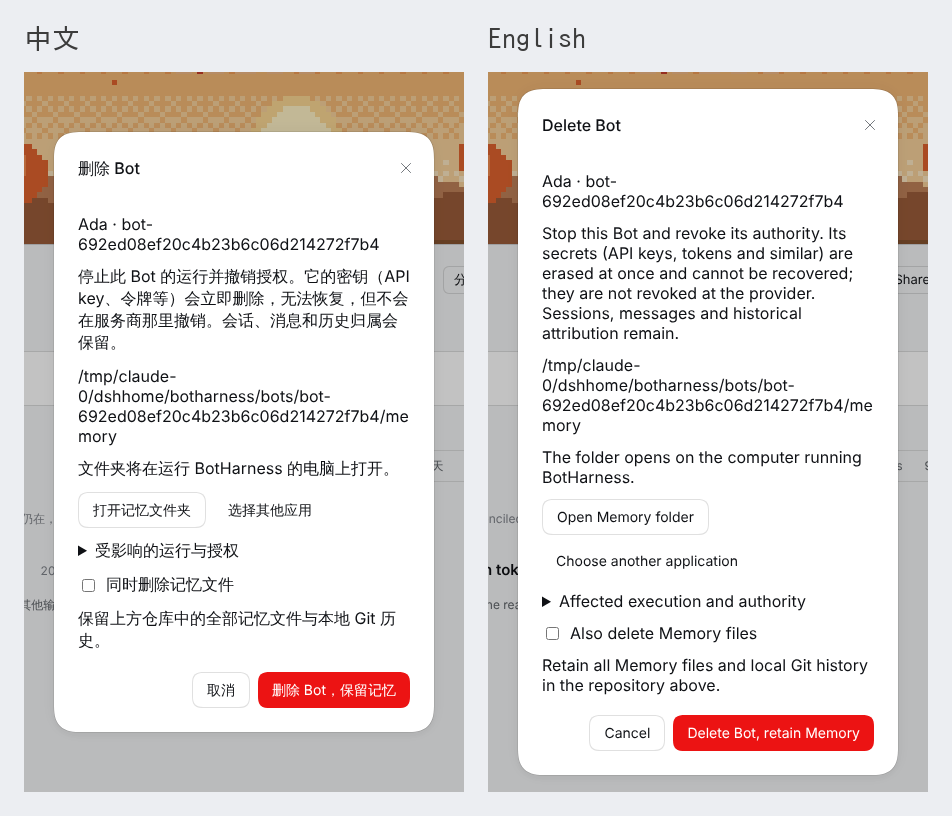
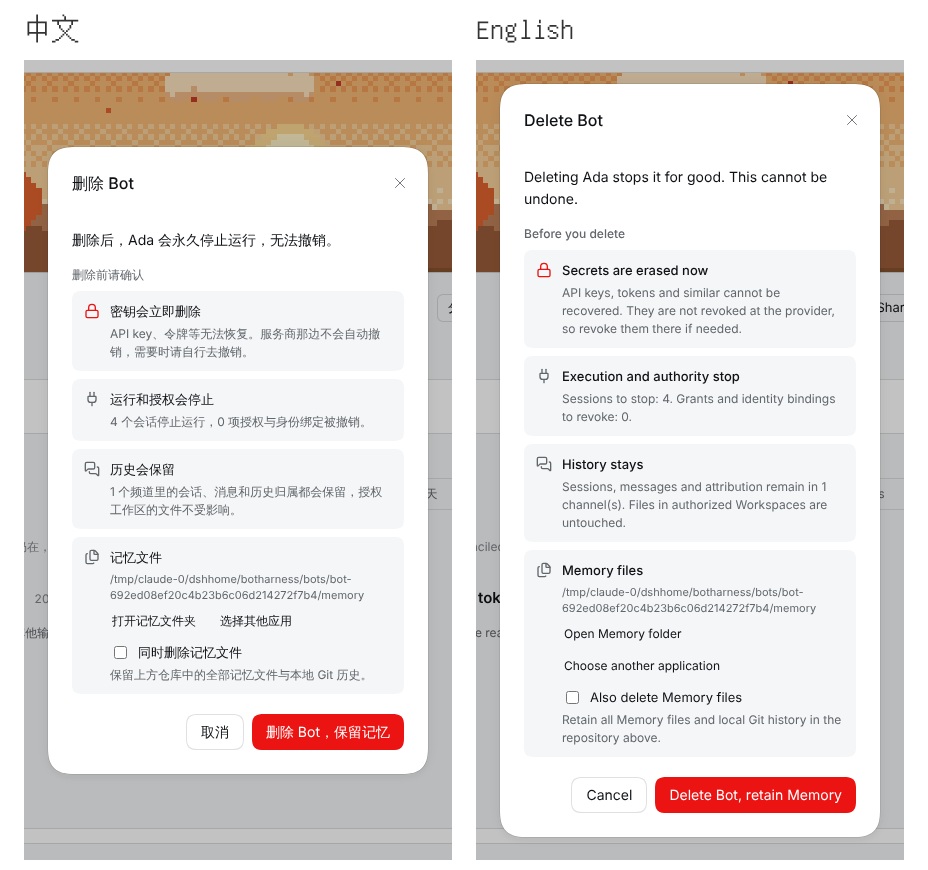
Redesign the Delete Bot dialog around borderless notice cards
Claude-Session: https://claude.ai/code/session_0152zfVCAc6MNB8R8xVq9b76

Changed region(s): [[0.0, 0.0, 1.0, 1.0], [0.2188, 0.8272, 0.25, 0.8578]]

diff --git a/packages/client/src/client/personabot-deletion.tsx b/packages/client/src/client/personabot-deletion.tsx
@@ -1,12 +1,37 @@
-import { useState, type ReactElement } from 'react';
+import { useState, type ReactElement, type ReactNode } from 'react';
 import { Button } from '@deepseek-ai/dsh-client-ui-primitives';
 
 import type { PersonaBotDeletionPreview } from '../../../core/src/bots/deletion.js';
 import type { BridgeActions } from './actions.js';
+import { ChannelSidebarIcon } from './channel-sidebar-icon.js';
 import type { HostFileOptions } from './host-file-actions.js';
 import type { BotHarnessTranslate } from './locale.js';
 import { Modal } from './modal.js';
 import { useMountedResource } from './mounted-resource.js';
+
+function DeletionNotice({
+  icon,
+  title,
+  tone,
+  children,
+}: {
+  icon: string;
+  title: string;
+  tone?: 'danger';
+  children: ReactNode;
+}): ReactElement {
+  return (
+    <div className="bh-bot-deletion-notice" data-tone={tone}>
+      <span className="bh-bot-deletion-notice-icon" aria-hidden="true">
+        <ChannelSidebarIcon name={icon} size={16} />
+      </span>
+      <div className="bh-bot-deletion-notice-text">
+        <strong className="bh-bot-deletion-notice-title">{title}</strong>
+        {children}
+      </div>
+    </div>
+  );
+}
 
 export function PersonaBotDeletionView({
   slug,
@@ -61,84 +86,104 @@ export function PersonaBotDeletionView({
         <p>{t('deletion.loading')}</p>
       ) : (
         <>
-          <p>
-            {preview.displayName} · {slug}
+          <p className="bh-bot-deletion-lead">
+            {state === undefined
+              ? t('deletion.lead', { name: preview.displayName })
+              : t('deletion.history')}
           </p>
-          <p>{t(state === undefined ? 'deletion.description' : 'deletion.history')}</p>
-          <p className="bh-bot-deletion-path">{preview.memoryDir}</p>
-          <p>{t('deletion.hostFolder')}</p>
-          <div className="bh-bot-deletion-actions">
-            <Button
-              variant="outline"
-              disabled={busy || state?.memory === 'erased'}
-              onClick={() => void perform(() => actions.deletionFolderOpen(slug))}
-            >
-              {t('deletion.openFolder')}
-            </Button>
-            <Button
-              variant="ghost"
-              disabled={busy || state?.memory === 'erased'}
-              onClick={() =>
-                void perform(async () => {
-                  const options = await actions.deletionFolderApplications(slug);
-                  setHandlers(options);
-                  if (!options.available) throw new Error(t('deletion.noHandler'));
-                })
-              }
-            >
-              {t('deletion.otherApp')}
-            </Button>
-            {handlers?.applications.map((app) => (
-              <Button
-                key={app.id}
-                variant="ghost"
-                disabled={busy}
-                onClick={() =>
-                  void perform(() => actions.deletionFolderOpen(slug, { application: app.id }))
-                }
-              >
-                {app.name}
-              </Button>
-            ))}
-          </div>
-          <details>
-            <summary>{t('deletion.dependencies')}</summary>
-            <dl>
-              <dt>{t('deletion.sessions')}</dt>
-              <dd>{preview.dependencies.sessions.length}</dd>
-              <dt>{t('deletion.authorizations')}</dt>
-              <dd>{preview.dependencies.grants.length + preview.dependencies.identities.length}</dd>
-              <dt>{t('deletion.channels')}</dt>
-              <dd>{preview.dependencies.channels.length}</dd>
-              <dt>{t('deletion.workspaces')}</dt>
-              <dd>{preview.dependencies.workspaces.join('\n') || '—'}</dd>
-            </dl>
-          </details>
-          {state === undefined ? (
+          <section className="bh-bot-deletion-notices" aria-label={t('deletion.notice')}>
+            {state === undefined ? (
+              <>
+                <h3 className="bh-bot-deletion-heading">{t('deletion.notice')}</h3>
+                <DeletionNotice icon="lock" tone="danger" title={t('deletion.secretsTitle')}>
+                  {t('deletion.secretsBody')}
+                </DeletionNotice>
+                <DeletionNotice icon="plug" title={t('deletion.authorityTitle')}>
+                  {t('deletion.authorityBody', {
+                    sessions: preview.dependencies.sessions.length,
+                    grants:
+                      preview.dependencies.grants.length + preview.dependencies.identities.length,
+                  })}
+                </DeletionNotice>
+                <DeletionNotice icon="messages-square" title={t('deletion.retainTitle')}>
+                  {t('deletion.retainBody', { channels: preview.dependencies.channels.length })}
+                  {preview.dependencies.workspaces.map((workspace) => (
+                    <span key={workspace} className="bh-bot-deletion-path">
+                      {workspace}
+                    </span>
+                  ))}
+                </DeletionNotice>
+              </>
+            ) : null}
+            <DeletionNotice icon="files" title={t('deletion.memoryTitle')}>
+              <span className="bh-bot-deletion-path">{preview.memoryDir}</span>
+              <span className="bh-bot-deletion-actions">
+                <Button
+                  variant="ghost"
+                  size="sm"
+                  title={t('deletion.hostFolder')}
+                  disabled={busy || state?.memory === 'erased'}
+                  onClick={() => void perform(() => actions.deletionFolderOpen(slug))}
+                >
+                  {t('deletion.openFolder')}
+                </Button>
+                <Button
+                  variant="ghost"
+                  size="sm"
+                  disabled={busy || state?.memory === 'erased'}
+                  onClick={() =>
+                    void perform(async () => {
+                      const options = await actions.deletionFolderApplications(slug);
+                      setHandlers(options);
+                      if (!options.available) throw new Error(t('deletion.noHandler'));
+                    })
+                  }
+                >
+                  {t('deletion.otherApp')}
+                </Button>
+                {handlers?.applications.map((app) => (
+                  <Button
+                    key={app.id}
+                    variant="ghost"
+                    size="sm"
+                    disabled={busy}
+                    onClick={() =>
+                      void perform(() => actions.deletionFolderOpen(slug, { application: app.id }))
+                    }
+                  >
+                    {app.name}
+                  </Button>
+                ))}
+              </span>
+              {state === undefined ? (
+                <>
+                  <label className="bh-bot-deletion-choice">
+                    <input
+                      type="checkbox"
+                      checked={erase}
+                      disabled={busy || !preview.eraseAvailable}
+                      onChange={(event) => setErase(event.target.checked)}
+                    />
+                    {t('deletion.eraseMemory')}
+                  </label>
+                  {preview.refusal === undefined ? null : <span>{preview.refusal}</span>}
+                  <span>{t(erase ? 'deletion.eraseScope' : 'deletion.retainScope')}</span>
+                </>
+              ) : (
+                <span>
+                  {t(
+                    state.memory === 'erased'
+                      ? 'deletion.erased'
+                      : state.memory === 'pending'
+                        ? 'deletion.pending'
+                        : 'deletion.retained',
+                  )}
+                </span>
+              )}
+            </DeletionNotice>
+          </section>
+          {state === undefined ? null : (
             <>
-              <label className="bh-bot-deletion-choice">
-                <input
-                  type="checkbox"
-                  checked={erase}
-                  disabled={busy || !preview.eraseAvailable}
-                  onChange={(event) => setErase(event.target.checked)}
-                />
-                {t('deletion.eraseMemory')}
-              </label>
-              {preview.refusal === undefined ? null : <p>{preview.refusal}</p>}
-              <p>{t(erase ? 'deletion.eraseScope' : 'deletion.retainScope')}</p>
-            </>
-          ) : (
-            <>
-              <p>
-                {t(
-                  state.memory === 'erased'
-                    ? 'deletion.erased'
-                    : state.memory === 'pending'
-                      ? 'deletion.pending'
-                      : 'deletion.retained',
-                )}
-              </p>
               {state.failure === undefined ? null : (
                 <p className="bh-modal-error" role="alert">
                   {state.failure}

diff --git a/packages/client/src/client/locale.ts b/packages/client/src/client/locale.ts
@@ -742,18 +742,21 @@ export const zh = {
   'common.cancel': '取消',
   'deletion.loading': '正在读取删除范围…',
   'deletion.title': '删除 Bot',
-  'deletion.description':
-    '停止此 Bot 的运行并撤销授权。它的密钥（API key、令牌等）会立即删除，无法恢复，但不会在服务商那里撤销。会话、消息和历史归属会保留。',
+  'deletion.lead': '删除后，{name} 会永久停止运行，无法撤销。',
+  'deletion.notice': '删除前请确认',
+  'deletion.secretsTitle': '密钥会立即删除',
+  'deletion.secretsBody': 'API key、令牌等无法恢复。服务商那边不会自动撤销，需要时请自行去撤销。',
+  'deletion.authorityTitle': '运行和授权会停止',
+  'deletion.authorityBody': '{sessions} 个会话停止运行，{grants} 项授权与身份绑定被撤销。',
+  'deletion.retainTitle': '历史会保留',
+  'deletion.retainBody':
+    '{channels} 个频道里的会话、消息和历史归属都会保留，授权工作区的文件不受影响。',
+  'deletion.memoryTitle': '记忆文件',
   'deletion.history': '此身份已停用，无法重新启动。保留的历史和记忆仍属于原 Bot。',
   'deletion.hostFolder': '文件夹将在运行 BotHarness 的电脑上打开。',
   'deletion.openFolder': '打开记忆文件夹',
   'deletion.otherApp': '选择其他应用',
   'deletion.noHandler': 'Host 上没有可用的文件夹打开应用。',
-  'deletion.dependencies': '受影响的运行与授权',
-  'deletion.sessions': '拥有的会话',
-  'deletion.authorizations': '将撤销的授权与身份绑定',
-  'deletion.channels': '保留历史的频道',
-  'deletion.workspaces': '授权工作区（文件保留）',
   'deletion.eraseMemory': '同时删除记忆文件',
   'deletion.eraseScope':
     '删除上方仓库中的全部记忆文件与本地 Git 历史。不会删除工作区、会话历史、消息、远程仓库或备份。',
@@ -3795,19 +3798,24 @@ export const en = {
   'common.cancel': 'Cancel',
   'deletion.loading': 'Loading deletion scope…',
   'deletion.title': 'Delete Bot',
-  'deletion.description':
-    'Stop this Bot and revoke its authority. Its secrets (API keys, tokens and similar) are erased at once and cannot be recovered; they are not revoked at the provider. Sessions, messages and historical attribution remain.',
+  'deletion.lead': 'Deleting {name} stops it for good. This cannot be undone.',
+  'deletion.notice': 'Before you delete',
+  'deletion.secretsTitle': 'Secrets are erased now',
+  'deletion.secretsBody':
+    'API keys, tokens and similar cannot be recovered. They are not revoked at the provider, so revoke them there if needed.',
+  'deletion.authorityTitle': 'Execution and authority stop',
+  'deletion.authorityBody':
+    'Sessions to stop: {sessions}. Grants and identity bindings to revoke: {grants}.',
+  'deletion.retainTitle': 'History stays',
+  'deletion.retainBody':
+    'Sessions, messages and attribution remain in {channels} channel(s). Files in authorized Workspaces are untouched.',
+  'deletion.memoryTitle': 'Memory files',
   'deletion.history':
     'This identity is terminally disabled. Retained history and Memory still belong to the original Bot.',
   'deletion.hostFolder': 'The folder opens on the computer running BotHarness.',
   'deletion.openFolder': 'Open Memory folder',
   'deletion.otherApp': 'Choose another application',
   'deletion.noHandler': 'No Host application can open this folder.',
-  'deletion.dependencies': 'Affected execution and authority',
-  'deletion.sessions': 'Owned sessions',
-  'deletion.authorizations': 'Grants and identity bindings to disable',
-  'deletion.channels': 'Channels whose history is retained',
-  'deletion.workspaces': 'Authorized Workspaces (files retained)',
   'deletion.eraseMemory': 'Also delete Memory files',
   'deletion.eraseScope':
     'Erase all Memory files and local Git history in the repository above. Workspaces, Session history, messages, remote repositories and backups remain.',

diff --git a/packages/client/src/client/styles.ts b/packages/client/src/client/styles.ts
@@ -1656,14 +1656,19 @@ html[data-botharness-motion='reduce'] .bh-section-chevron {
 }
 
 /* 创建失败提示留在 Modal 体内；Modal 在 body 下，不能依赖 .bh-root 前缀。 */
- .bh-bot-deletion { display: grid; gap: 12px; }
+ .bh-bot-deletion { display: grid; gap: 16px; }
 .bh-bot-deletion p { margin: 0; }
-.bh-bot-deletion-path { overflow-wrap: anywhere; font-family: var(--dsw-font-family-mono); }
-.bh-bot-deletion-actions { display: flex; flex-wrap: wrap; gap: 8px; }
-.bh-bot-deletion-choice { display: flex; align-items: center; gap: 8px; }
-.bh-bot-deletion-confirm { color: var(--dsw-alias-state-error-primary); }
-.bh-bot-deletion dl { display: grid; grid-template-columns: minmax(0, 1fr) minmax(0, 1fr); gap: 8px; }
-.bh-bot-deletion dd { margin: 0; white-space: pre-wrap; overflow-wrap: anywhere; }
+.bh-bot-deletion-lead { font-size: 14px; line-height: 22px; color: var(--dsw-alias-label-primary); }
+.bh-bot-deletion-notices { display: grid; gap: 8px; }
+.bh-bot-deletion-heading { margin: 0; font-size: 12px; font-weight: 500; line-height: 16px; color: var(--dsw-alias-label-secondary); }
+.bh-bot-deletion-notice { display: flex; gap: 10px; min-width: 0; padding: 10px 12px; border-radius: 10px; background: var(--dsw-alias-bg-module-platform); }
+.bh-bot-deletion-notice-icon { display: inline-flex; flex: none; padding-top: 2px; color: var(--dsw-alias-label-secondary); }
+.bh-bot-deletion-notice[data-tone="danger"] .bh-bot-deletion-notice-icon { color: var(--dsw-alias-state-error-primary); }
+.bh-bot-deletion-notice-text { display: flex; flex-direction: column; gap: 4px; min-width: 0; font-size: 12px; line-height: 18px; color: var(--dsw-alias-label-secondary); }
+.bh-bot-deletion-notice-title { font-size: 13px; font-weight: 500; line-height: 20px; color: var(--dsw-alias-label-primary); }
+.bh-bot-deletion-path { overflow-wrap: anywhere; font-family: var(--dsw-font-family-mono); font-size: 11px; line-height: 16px; }
+.bh-bot-deletion-actions { display: flex; flex-wrap: wrap; gap: 4px; margin-left: -8px; }
+.bh-bot-deletion-choice { display: flex; align-items: center; gap: 8px; margin-top: 4px; font-size: 13px; color: var(--dsw-alias-label-primary); }
 
 .bh-modal-error {
   margin-top: 8px;

diff --git a/packages/client/test/personabot-deletion.test.ts b/packages/client/test/personabot-deletion.test.ts
@@ -96,6 +96,22 @@ async function fixture() {
 }
 
 describe('PersonaBot deletion Memory consent', () => {
+  it('leads with what stops and lists each notice as its own card', async () => {
+    const f = await fixture();
+    try {
+      expect(f.host.querySelector('.bh-bot-deletion-lead')?.textContent).toBe(
+        '删除后，Ada 会永久停止运行，无法撤销。',
+      );
+      const titles = Array.from(f.host.querySelectorAll('.bh-bot-deletion-notice-title')).map(
+        (node) => node.textContent,
+      );
+      expect(titles).toEqual(['密钥会立即删除', '运行和授权会停止', '历史会保留', '记忆文件']);
+      expect(f.host.textContent).toContain('1 个会话停止运行，0 项授权与身份绑定被撤销。');
+    } finally {
+      await f.dispose();
+    }
+  });
+
   it('starts unchecked, opening the folder does not opt in, and reopening resets a previous choice', async () => {
     const f = await fixture();
     try {
